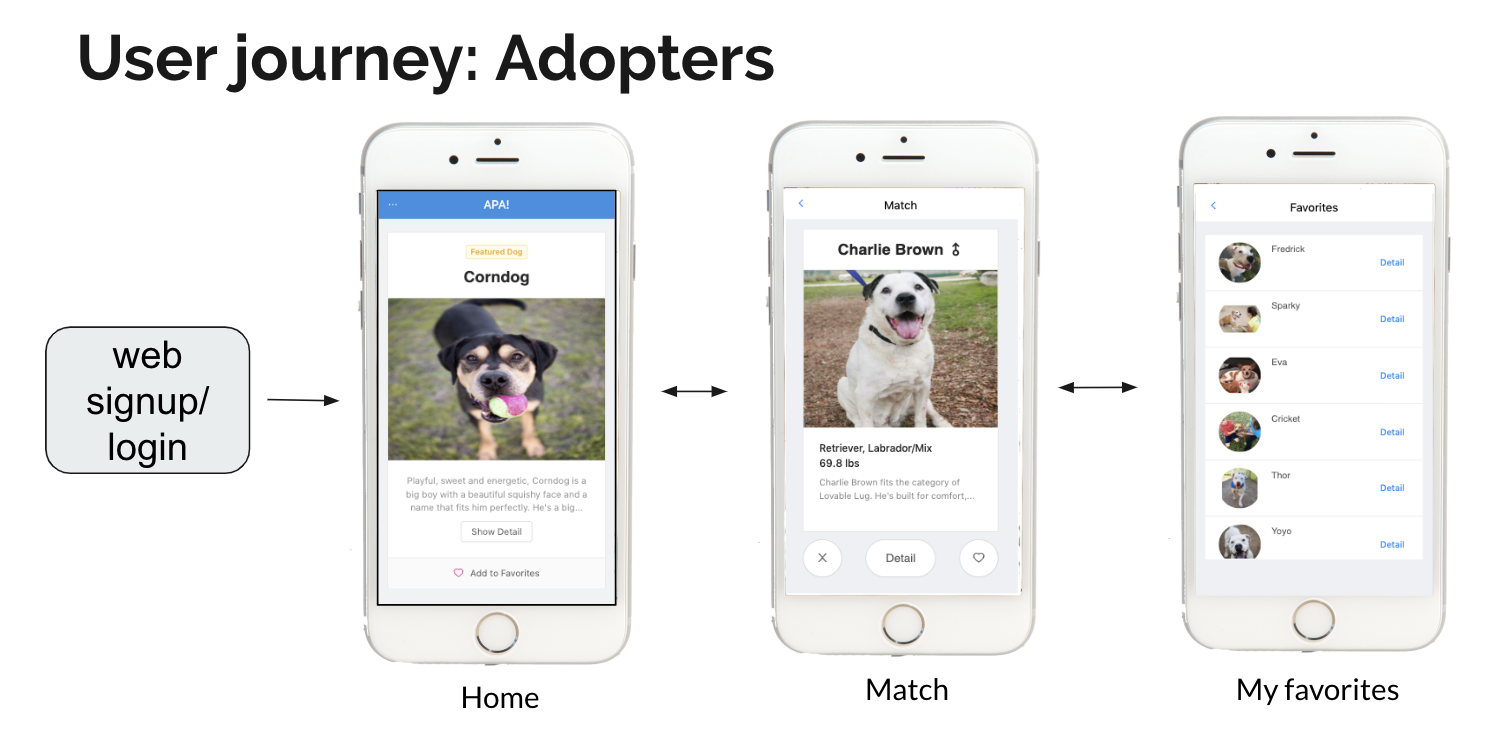
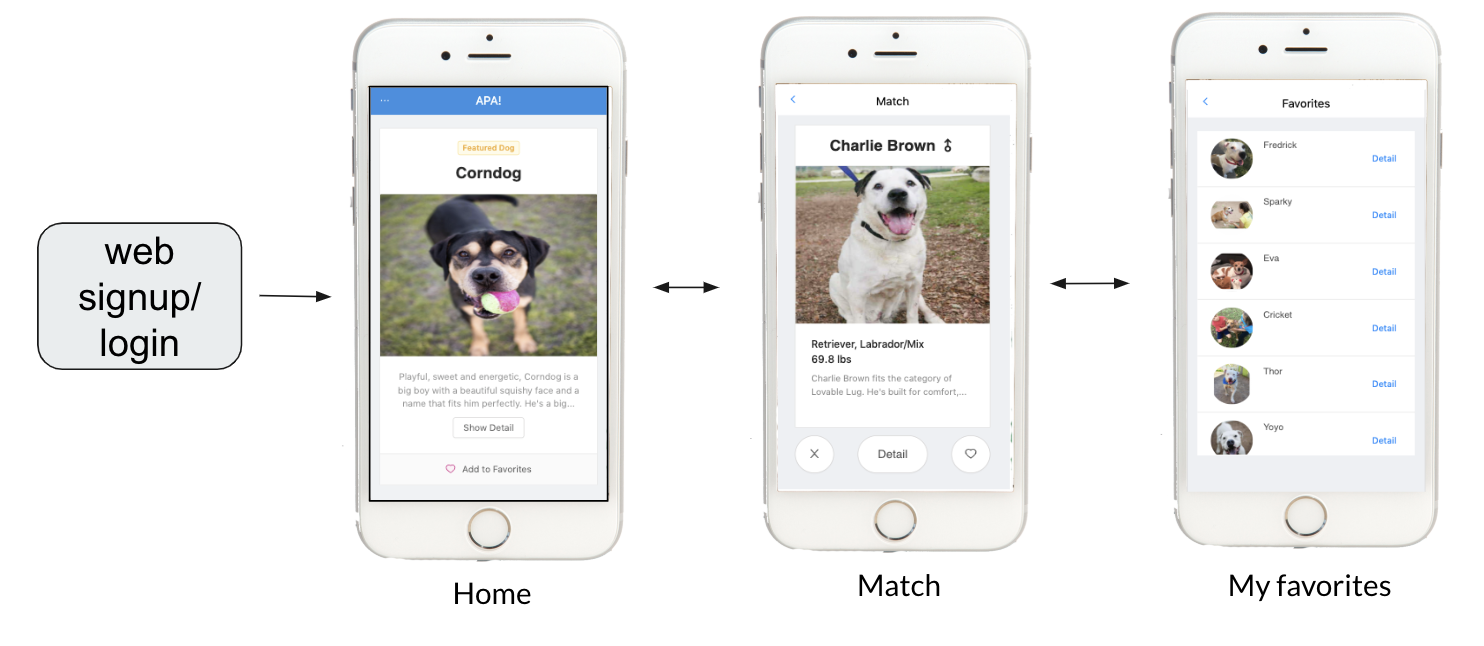
imgs added

diff --git a/docs/_build/html/searchindex.js b/docs/_build/html/searchindex.js
@@ -1,1 +1,1 @@
-Search.setIndex({docnames:["commands","example","getting-started","index"],envversion:{"sphinx.domains.c":1,"sphinx.domains.changeset":1,"sphinx.domains.cpp":1,"sphinx.domains.javascript":1,"sphinx.domains.math":1,"sphinx.domains.python":1,"sphinx.domains.rst":1,"sphinx.domains.std":1,sphinx:55},filenames:["commands.rst","example.rst","getting-started.rst","index.md"],objects:{},objnames:{},objtypes:{},terms:{"class":3,"default":3,"final":2,"import":[1,3],"long":[],"new":3,"super":3,"try":3,"while":3,For:3,The:[0,1,3],Then:3,There:3,USE:3,Use:3,abl:3,about:[],ac297r:3,accur:3,adopt:3,again:3,age:[],ageatintak:3,aliv:3,all:3,allow:3,alreadi:3,also:3,alwai:3,amount:3,analysi:3,ani:3,anim:3,animalagedai:3,animalalt:3,animalcoverphoto:3,animalcurrentweightpound:3,animalsex:3,animalstatu:3,anoth:3,anyth:[],apa_tind:3,apadump:3,api:3,app:3,appli:3,appoint:3,approach:3,around:3,austin:3,averag:3,awesom:1,aws:0,backend:1,basic:1,bayesian:3,beagl:3,begin:3,being:3,below:3,best:3,better:3,between:3,black:3,blond:3,blue:3,breed:3,brew:3,brown:3,browser:3,bsd:1,bucket:0,build:3,bulldog:3,can:3,cancel:3,candid:3,capston:3,categor:3,caus:3,central:0,chang:3,check:3,choos:3,classifi:3,clean:2,click:3,client:3,code:1,coeffici:3,collect:3,color:3,com:[1,3],command:[1,2],common:0,commun:3,compat:3,complet:3,compon:3,comput:3,conda:3,confirm:3,consequ:3,consist:3,contain:[0,3],content:1,continu:3,correl:3,cours:3,cream:3,creat:3,currentbehaviorcategori:3,currentvolunteercategori:3,dachshund:3,dai:3,data:[1,2],databas:3,database_password:[],database_us:[],david:3,daysinshelt:3,db_endpoint:3,db_password:3,db_usernam:3,decid:3,deeplearn:3,degre:3,deliev:3,describ:2,determin:3,dev:3,develop:3,did:3,differ:3,director:3,directori:3,do_stuff:1,document:1,doing:3,done:1,download:3,drag:3,drop:3,dump:3,dumpfil:3,dure:3,each:3,easi:1,easili:[1,3],enabl:3,encod:3,encrypt:3,end:3,endpoint:3,enthusiast:3,entri:0,env:3,environ:3,etc:3,evalu:3,everi:3,exampl:[2,3],expect:3,explan:1,faster:1,featur:[],feedback:3,few:3,figur:3,file:[0,3],fill:3,find:3,firstintakeeventtyp:3,folder:3,follow:3,forest:3,from:[0,3],frontend:1,furthermor:3,get:[1,3],github:1,give:3,given:3,goal:3,gold:3,good:3,googl:1,grant:3,graphql:3,greatli:3,grei:3,gridsearchcv:3,group:[1,3],guid:3,guidanc:[],had:3,harvard:3,has:3,have:[1,3],higher:[],hot:3,hound:3,hour:3,how:[1,2],howev:3,html:3,http:3,identifi:3,improv:3,includ:[0,2],index:1,indic:3,inform:3,initi:3,input:3,insepct:3,inspect:[],instal:2,instead:3,instruct:3,instructor:3,isbeagl:3,isbehaviorconsult:3,isblack:3,isblond:3,isblu:3,isbrown:3,isbulldog:3,iscgc:3,iscream:3,isdachshund:3,isdistemp:3,isdistemperwatch:3,isgrei:3,ishwpo:3,ishwtreat:3,ismedicalconsult:3,isr:3,issu:1,istan:3,istopdog:3,iswhit:3,isyellow:3,jwt_token:3,kei:3,know:1,lassocv:3,lasteventtyp:3,lastintakeeventtyp:3,left:3,legaci:3,length:[],lengthi:[],less:[],let:1,lifesav:3,like:3,linear:3,link:3,list:[1,3],listen:3,local:3,localhost:3,locat:[1,3],log:3,look:[1,3],lower:[],mail:1,mailgun_api_kei:[],mailgun_domain:[],mailgun_valid:[],major:3,make:[0,1,2,3],makefil:0,manual:3,master:3,match:3,matchmak:3,messag:3,minor:3,minut:3,model:1,modul:1,more:3,mysql:1,name:3,nan:3,navig:3,nearli:3,necessari:[2,3],need:3,net:3,next:3,non:3,now:3,number:3,obtain:3,ohimoba:[],ohiomoba:3,onc:3,one:3,onli:3,oper:3,option:[0,3],order:3,organ:3,other:3,our:3,out:3,packag:3,page:1,parent:3,part:3,partner:3,password:3,path:3,patrick:3,peopl:3,per:3,perform:3,person:3,pet:3,phd:3,pip:3,plan:3,pleas:[1,3],point:0,polynomi:3,popul:3,port:3,porter:3,posit:3,possibl:[],predict:3,predictor:3,prefer:3,press:3,privat:3,privileg:3,problem:1,procedur:3,produc:3,product:3,project:0,provid:[1,3],purpos:3,pygpu:3,pymc3:3,random:3,raw:2,readi:3,real:3,recurs:0,red:3,regress:3,relat:0,relationship:3,relev:3,replac:3,represent:3,requir:3,respons:3,rest:3,result:3,ridg:3,ridgecv:3,right:[],rollout:3,root:3,run:[1,3],same:3,scale:3,school:3,scienc:3,score:3,sea:3,search:1,secret_kei:[],see:3,seem:3,server:3,set:[2,3],setup:1,shelter:3,show:[],shown:3,signific:3,sinc:3,site:3,softwar:3,solv:1,sondak:3,sourc:1,special:3,spent:3,sql:3,src:3,stai:[],standard:3,start:[1,3],step:3,steve:3,string:3,student:3,stuff:1,successfulli:3,suit:3,super_dog_t:3,support:3,sync:1,sync_data_from_s3:[0,2],sync_data_to_s3:0,system:3,take:3,talk:3,tan:3,task:0,team:3,term:3,termin:3,test:3,than:3,thank:3,theano:3,thei:3,them:3,thi:[0,2,3],thing:1,those:3,time:3,top:3,touch:3,tracker:1,tri:3,twilio_phon:[],twilio_sid:[],twilio_token:[],txt:3,type:3,under:1,uniqu:3,univers:3,updat:3,use:[0,1,3],used:3,usernam:3,uses:[],using:[2,3],valu:3,variabl:3,veri:3,version:3,view:3,visit:3,visitor:3,volunt:3,wait:3,want:3,web:1,websit:3,were:3,when:3,where:[1,2,3],whether:3,white:3,who:3,without:3,work:[],would:3,xxxx:3,yarn:3,yellow:3,you:[1,2,3],your:[0,1,3],yyyi:3,zzzz:3},titles:["Commands","APA Tinder for Dogs Application","Getting started","APA Tinder for Dogs Web Application"],titleterms:{RDS:[],about:3,ac297r_project_directori:[],acknowledg:3,animalbre:3,animalcolor:3,apa:[1,3],applic:[1,3],architectur:3,backend:3,clean:3,column:3,command:0,content:[],contribut:1,data:[0,3],demo:3,document:[],dog:[1,3],engin:3,featur:[1,3],frontend:3,futur:3,get:2,hello:[],indic:1,instal:[1,3],introduct:3,jupyt:3,licens:1,maco:3,model:3,mysql:3,notebook:3,popular:3,posterior:3,prior:3,problem:3,project:[1,3],recommend:3,setup:3,start:2,statement:3,structur:[],summari:3,support:1,swipe:3,sync:0,tabl:1,test:[],tinder:[1,3],user:3,web:3,work:3}})
+Search.setIndex({docnames:["commands","example","getting-started","index"],envversion:{"sphinx.domains.c":1,"sphinx.domains.changeset":1,"sphinx.domains.cpp":1,"sphinx.domains.javascript":1,"sphinx.domains.math":1,"sphinx.domains.python":1,"sphinx.domains.rst":1,"sphinx.domains.std":1,sphinx:55},filenames:["commands.rst","example.rst","getting-started.rst","index.md"],objects:{},objnames:{},objtypes:{},terms:{"class":3,"default":3,"final":2,"function":3,"import":[1,3],"long":3,"new":3,"public":3,"super":3,"try":3,"while":3,For:3,The:[0,1,3],Then:3,There:3,USE:3,Use:3,abl:3,about:[],ac297r:3,accur:3,admin:3,adopt:[],again:3,age:[],ageatintak:3,aliv:3,all:3,allow:3,alreadi:3,also:3,alt:[],alwai:3,amount:3,analysi:3,ani:3,anim:3,animalagedai:3,animalalt:3,animalcoverphoto:3,animalcurrentweightpound:3,animalsex:3,animalstatu:3,anoth:3,anyth:[],apa_tind:3,apadump:3,apatind:[],api:3,app:3,appli:3,appoint:3,approach:3,around:3,austin:3,averag:3,awesom:1,aws:0,backend:1,basic:1,bayesian:3,beagl:3,begin:3,being:3,below:3,best:3,better:3,between:3,black:3,blob:[],blond:3,blue:3,bottleneck:3,breed:3,brew:3,brown:3,browser:3,bsd:1,bucket:0,build:3,bulldog:3,can:3,cancel:3,candid:3,capston:3,categor:3,caus:3,central:0,chang:3,check:3,choos:3,classifi:3,clean:2,click:3,client:3,code:1,coeffici:3,collect:3,color:3,com:[1,3],command:[1,2],common:0,commun:3,compat:3,complet:3,compon:3,comput:3,conclus:3,conda:3,condit:3,conduct:3,confirm:3,consequ:3,consist:3,contain:[0,3],content:1,continu:3,correl:3,cours:3,cream:3,creat:3,current:3,currentbehaviorcategori:3,currentvolunteercategori:3,dachshund:3,dai:3,data:[1,2],databas:3,database_password:[],database_us:[],david:3,daysinshelt:3,db_endpoint:3,db_password:3,db_usernam:3,decid:3,deeplearn:3,degre:3,deliev:3,describ:2,detail:3,determin:3,dev:3,develop:3,did:3,differ:3,director:3,directori:3,do_stuff:1,doc:[],document:1,doing:3,done:1,download:3,drag:3,drop:3,due:3,dump:3,dumpfil:3,dure:3,each:3,easi:1,easili:[1,3],edit:3,effect:3,enabl:3,encod:3,encrypt:3,end:3,endpoint:3,enthusiast:3,entri:0,env:3,environ:3,etc:3,evalu:3,even:3,everi:3,exampl:[2,3],expect:3,explain:3,explan:1,faster:1,favorit:3,featur:[],feedback:3,few:3,figur:3,file:[0,3],fill:3,find:3,firstintakeeventtyp:3,folder:3,follow:3,forest:3,from:[0,3],frontend:1,furthermor:3,gener:3,get:[1,3],github:1,give:3,given:3,goal:3,gold:3,good:3,googl:1,grant:3,graphql:3,greatli:3,grei:3,gridsearchcv:3,group:[1,3],guid:3,guidanc:[],had:3,harvard:3,has:3,have:[1,3],help:3,her:3,higher:3,him:3,hot:3,hound:3,hour:3,how:[1,2],howev:3,html:3,http:3,identifi:3,img:[],improv:3,includ:[0,2],index:1,indic:3,inform:3,initi:3,input:3,insepct:3,inspect:[],instal:2,instead:3,instruct:3,instructor:3,isbeagl:3,isbehaviorconsult:3,isblack:3,isblond:3,isblu:3,isbrown:3,isbulldog:3,iscgc:3,iscream:3,isdachshund:3,isdistemp:3,isdistemperwatch:3,isgrei:3,ishwpo:3,ishwtreat:3,ismedicalconsult:3,isr:3,issu:1,istan:3,istopdog:3,iswhit:3,isyellow:3,jwt_token:3,keep:3,kei:3,know:1,lassocv:3,lasteventtyp:3,lastintakeeventtyp:3,left:3,legaci:3,length:[],lengthi:[],less:[],let:1,lifesav:3,like:3,linear:3,link:3,list:[1,3],listen:3,local:3,localhost:3,locat:[1,3],log:3,look:[1,3],lower:[],mail:1,mailgun_api_kei:[],mailgun_domain:[],mailgun_valid:[],main:3,major:3,make:[0,1,2,3],makefil:0,manual:3,master:3,match:3,matchmak:[],maximum:3,messag:3,minor:3,minut:3,model:1,modul:1,more:3,mysql:1,name:3,nan:3,navig:3,nearli:3,necessari:[2,3],need:3,net:3,next:3,nlp:3,non:3,now:3,number:3,obtain:3,ohimoba:[],ohiomoba:3,onc:3,one:3,onli:3,oper:3,option:[0,3],order:3,organ:3,other:3,our:3,out:3,packag:3,page:[1,3],parent:3,part:3,partner:3,password:3,path:3,patrick:3,peopl:3,per:3,perform:3,person:[],pet:3,phd:3,pip:3,plan:3,pleas:[1,3],png:[],point:0,polynomi:3,popul:3,port:3,porter:3,posit:3,possibl:[],potenti:3,predict:3,predictor:3,prefer:3,press:3,privat:3,privileg:3,problem:1,procedur:3,produc:3,product:3,project:0,provid:[1,3],purpos:3,pygpu:3,pymc3:3,rachelmoon290:[],random:3,rate:3,raw:2,readi:3,real:3,recurs:0,red:3,regress:3,relat:0,relationship:3,relev:3,replac:3,represent:3,requir:3,respons:3,rest:3,result:3,ridg:3,ridgecv:3,right:3,rollout:3,root:3,run:[1,3],same:3,scale:3,school:3,scienc:3,score:3,sea:3,search:1,secret_kei:[],see:3,seem:3,select:3,serv:3,server:3,set:[2,3],setup:1,shelter:3,show:3,shown:3,sign:3,signific:3,sinc:3,site:3,softwar:3,solv:1,sondak:3,sourc:1,special:3,specif:3,spent:3,sql:3,src:3,stai:3,standard:3,start:[1,3],step:3,steve:3,string:3,student:3,stuff:1,successfulli:3,suit:3,super_dog_t:3,support:3,sync:1,sync_data_from_s3:[0,2],sync_data_to_s3:0,system:3,take:3,talk:3,tan:3,task:0,team:3,term:3,termin:3,test:3,text:[],than:3,thank:3,theano:3,thei:3,them:3,thi:[0,2,3],thing:1,those:3,time:3,top:3,touch:3,tracker:1,tri:3,twilio_phon:[],twilio_sid:[],twilio_token:[],two:3,txt:3,type:3,under:1,uniqu:3,univers:3,updat:3,use:[0,1,3],used:3,userjournei:[],usernam:3,uses:[],using:[2,3],valu:3,variabl:3,veri:3,version:3,view:3,visit:3,visitor:3,volunt:[],wait:3,want:3,web:1,websit:3,were:3,when:3,where:[1,2,3],whether:3,white:3,who:3,wish:3,without:3,work:[],would:3,xxxx:3,yarn:3,yellow:3,you:[1,2,3],your:[0,1,3],yyyi:3,zzzz:3},titles:["Commands","APA Tinder for Dogs Application","Getting started","APA Tinder for Dogs Web Application"],titleterms:{RDS:[],about:3,ac297r_project_directori:[],acknowledg:3,adopt:3,animalbre:3,animalcolor:3,apa:[1,3],applic:[1,3],architectur:3,backend:3,clean:3,column:3,command:0,content:[],contribut:1,data:[0,3],demo:3,document:[],dog:[1,3],engin:3,featur:[1,3],frontend:3,futur:3,get:2,hello:[],indic:1,instal:[1,3],interfac:3,introduct:3,journei:3,jupyt:3,licens:1,maco:3,matchmak:3,model:3,mysql:3,notebook:3,popular:3,posterior:3,prior:3,problem:3,project:[1,3],recommend:3,setup:3,start:2,statement:3,structur:[],summari:3,support:1,swipe:3,sync:0,tabl:1,test:[],tinder:[1,3],user:3,web:3,work:3}})

diff --git a/docs/_build/html/index.html b/docs/_build/html/index.html
@@ -43,7 +43,7 @@
 </div>
 <div class="section" id="problem-statement">
 <h3>2. Problem Statement<a class="headerlink" href="#problem-statement" title="Permalink to this headline">¶</a></h3>
-<p>Every day at Austin Pets Alive!, there are ~40 people visiting the shelter to look for animals to adopt. However, there are only 3~4 matchmakers (volunteers who match people with animals) on site, and it takes about 30 minutes to an hour for a matchmaker to talk to each person. As a result, the average waiting time is about 53 minutes per visitor, and consequently about 26% of on-site visitors cancel their appointment.</p>
+<p>Every day at Austin Pets Alive!, there are about 40 people who visit the shelter to look for animals to adopt. However, there are only maximum 4 matchmakers on site each day, and it takes about 30 minutes to an hour for a matchmaker to talk to each visitor and match him/her with the best dogs. As a result, the average waiting time is about 53 minutes per visitor, and consequently about 26% of on-site visitors cancel or do not show up to their appointment, due to this bottleneck effect.</p>
 <p>APA Tinder for Dogs is a web application that enables adopters</p>
 <p>This project is part of Harvard’s AC297r Capstone Project course, partnered with APA!.</p>
 </div>
@@ -95,6 +95,18 @@
 <ol class="simple">
 <li>Download required packages: Navigate to <code class="docutils literal notranslate"><span class="pre">notebooks</span></code> folder. In terminal run <code class="docutils literal notranslate"><span class="pre">pip</span> <span class="pre">install</span> <span class="pre">-r</span> <span class="pre">requirements.txt</span></code>. If theano in pymc3 package causes problems, try <code class="docutils literal notranslate"><span class="pre">conda</span> <span class="pre">install</span> <span class="pre">theano</span> <span class="pre">pygpu</span></code>, or follow instructions in http://deeplearning.net/software/theano_versions/dev/install_macos.html.</li>
 </ol>
+</div>
+</div>
+<div class="section" id="web-interface">
+<h2>Web Interface<a class="headerlink" href="#web-interface" title="Permalink to this headline">¶</a></h2>
+<p>The web serves two types of users: the adopters and the matchmakers (admin). Below we explain the current functionalities of our web application.</p>
+<div class="section" id="user-journey-adopters">
+<h3>User journey: adopters<a class="headerlink" href="#user-journey-adopters" title="Permalink to this headline">¶</a></h3>
+<p><img alt="_images/userjourney_adopter.png" src="_images/userjourney_adopter.png" /></p>
+</div>
+<div class="section" id="user-journey-matchmakers">
+<h3>User journey: matchmakers<a class="headerlink" href="#user-journey-matchmakers" title="Permalink to this headline">¶</a></h3>
+<p>The matchmakers can view the list of users who have signed up and used our application. They can also view specific user details, such as the user’s environment condition, animal adoption preferences, and their favorited dog list. In the favorited dog list, the matchmakers are able to see the NLP generated summary of the dogs, and can also edit the summary if they wish.</p>
 </div>
 </div>
 <div class="section" id="dog-recommendation-model">
@@ -153,10 +165,12 @@
 </div>
 <div class="section" id="summary">
 <h2>Summary<a class="headerlink" href="#summary" title="Permalink to this headline">¶</a></h2>
+<p>In conclusion, we have a working web architecture that performs dog recommendations for potential adopters, .</p>
+<p>Our web application will help improve dog adoption rate by recommending the right dogs that the adopters are more likely to adopt and keep. Furthermore, our application helps publicize even the dogs that have stayed long in the shelter, by featuring them on the main page as featured dogs, and</p>
 </div>
 <div class="section" id="future-work">
 <h2>Future Work<a class="headerlink" href="#future-work" title="Permalink to this headline">¶</a></h2>
-<p>Now that we have a working web application architecture, the next step is to collect real user swipes data and get feedback from the app users to evaluate and improve recommendation model performance. Furthermore, we plan to continue developing the application to suit APA!’s needs and work on the application rollout.</p>
+<p>Now that we have a working web application architecture, the next step is to collect real user swipes data and get feedback from the app users in order to evaluate and improve recommendation model performance. We can conduct testing such as A/B testing in order to determine whether our model results in higher dog adoption rate than random selection model. Furthermore, we plan to continue developing the application to suit APA!’s needs and work on the application rollout.</p>
 </div>
 <div class="section" id="about-us">
 <h2>About Us<a class="headerlink" href="#about-us" title="Permalink to this headline">¶</a></h2>
@@ -188,6 +202,11 @@
 <li><a class="reference internal" href="#model-backend-setup">2. Model Backend setup</a></li>
 <li><a class="reference internal" href="#web-frontend-and-backend-setup">3. Web Frontend and Backend setup</a></li>
 <li><a class="reference internal" href="#jupyter-notebook-demo-setup">4. Jupyter notebook demo setup</a></li>
+</ul>
+</li>
+<li><a class="reference internal" href="#web-interface">Web Interface</a><ul>
+<li><a class="reference internal" href="#user-journey-adopters">User journey: adopters</a></li>
+<li><a class="reference internal" href="#user-journey-matchmakers">User journey: matchmakers</a></li>
 </ul>
 </li>
 <li><a class="reference internal" href="#dog-recommendation-model">Dog Recommendation Model</a><ul>

diff --git a/docs/index.md b/docs/index.md
@@ -62,10 +62,13 @@ The web serves two types of users: the adopters and the matchmakers (admin). Bel
 ### User journey: adopters
 
 
+![](img/userjourney_adopter.png)
+
 
 ### User journey: matchmakers
 The matchmakers can view the list of users who have signed up and used our application. They can also view specific user details, such as the user's environment condition, animal adoption preferences, and their favorited dog list. In the favorited dog list, the matchmakers are able to see the NLP generated summary of the dogs, and can also edit the summary if they wish.  
 
+![](img/userjourney_matchmaker.png)
 
 ## Dog Recommendation Model
 ### Data Cleaning
